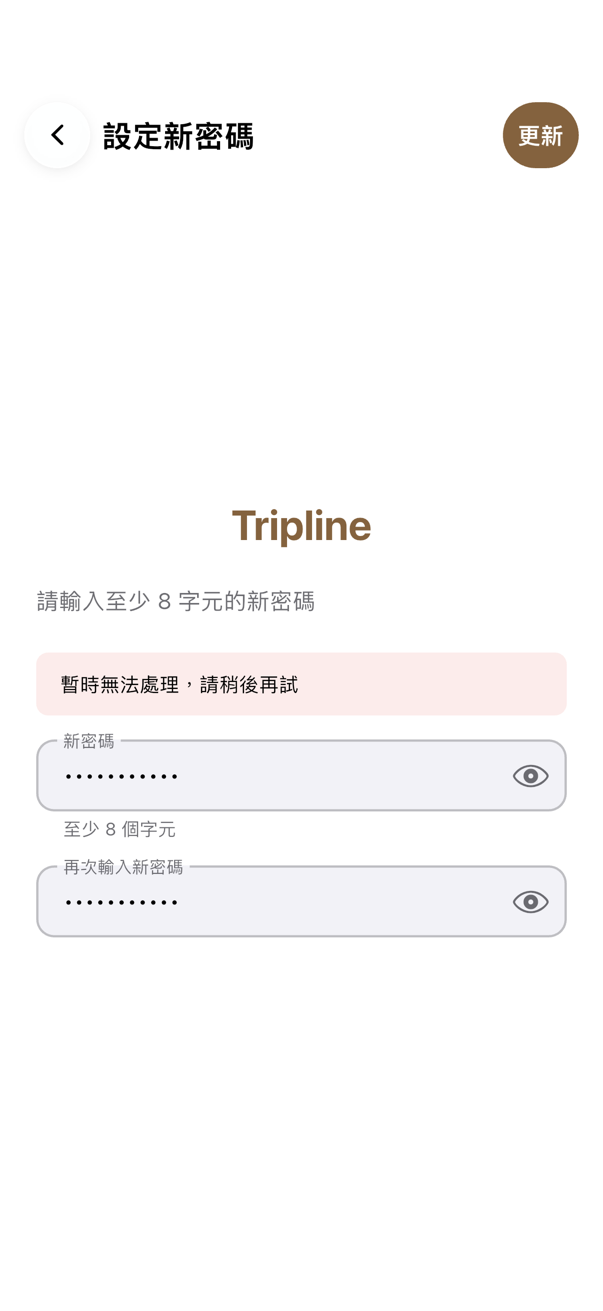
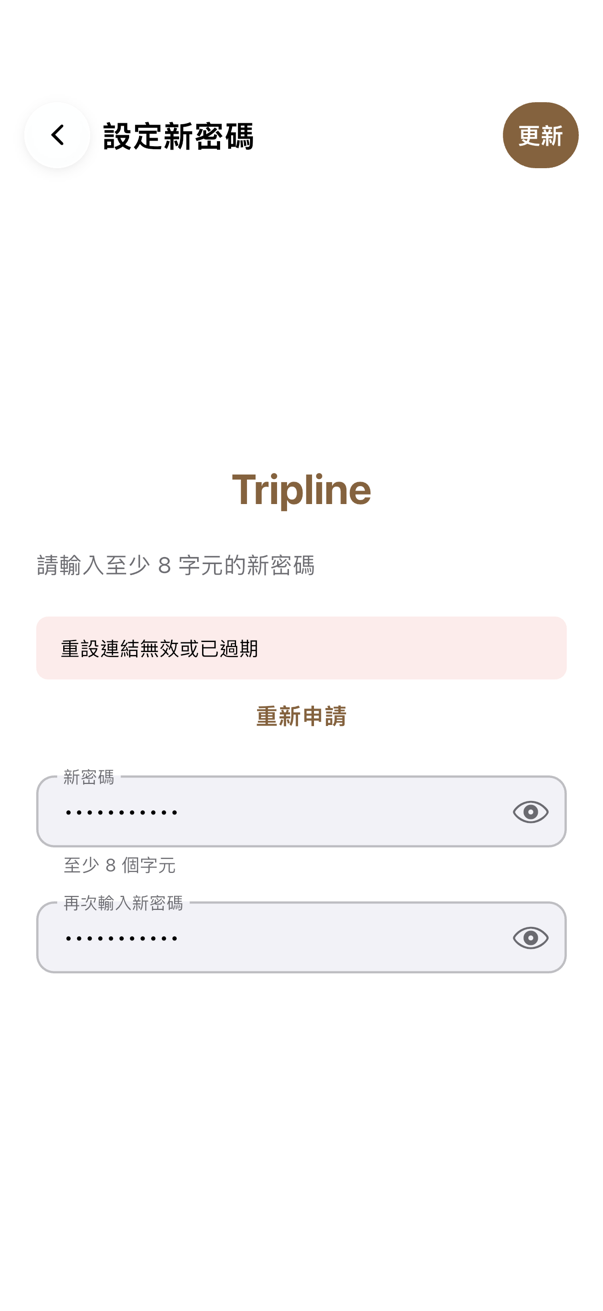
test: 修正三個無效場景並重拍（S1～S3）
- auth-reset-password-expired：stub 改丟畫面認得的 RESET_TOKEN_INVALID，proof 改確認過期提示文字
- trip-map-route-failed：fixture 每天只有一個有座標停留點，湊不出相鄰兩點所以從未抓路線；
  場景補第二個停留點，proof 確認 trip-map-route-error
- ax-favorites-2x：補 act 餵收藏資料流，proof 確認清單內容
- 三處皆用 mutation（把修正改回去）驗過 proof 會轉紅
- HIG_COLLECT 是 bool.fromEnvironment，值要寫 true 不是 1（修正註解與文件）
- 三組截圖重拍（iPhone 17 模擬器）；報告與修改清單同步更新

Changed region(s): [[0.0597, 0.3356, 0.9552, 0.7323]]

diff --git a/integration_test/support/hig_screenshot_scenes.dart b/integration_test/support/hig_screenshot_scenes.dart
@@ -30,7 +30,8 @@ import 'package:tripline/features/offline/offline_sync.dart';
 import 'package:tripline/features/chat/speech_service.dart';
 import 'package:tripline/main.dart';
 import 'package:tripline/models/poi_favorite.dart';
-import 'package:tripline/models/entry.dart' show TimelineEntry;
+import 'package:tripline/models/day.dart' show TripDay;
+import 'package:tripline/models/entry.dart' show EntryPoiInfo, TimelineEntry;
 import 'package:tripline/models/notes.dart';
 import 'package:tripline/models/oauth.dart';
 import 'package:tripline/models/poi_search_result.dart';
@@ -618,14 +619,25 @@ List<HigScene> higScenes() => [
     '#534',
     location: '/auth/password/reset?token=demo-token',
     loggedIn: false,
-    stub: (f) => when(
-      () => f.auth.resetPassword(
-        token: any(named: 'token'),
-        password: any(named: 'password'),
-      ),
-    ).thenThrow(ApiError(status: 400, code: 'expired', message: 'expired')),
+    stub: (f) =>
+        when(
+          () => f.auth.resetPassword(
+            token: any(named: 'token'),
+            password: any(named: 'password'),
+          ),
+        ).thenThrow(
+          ApiError(
+            status: 400,
+            code: 'RESET_TOKEN_INVALID',
+            message: 'invalid',
+          ),
+        ),
     act: _submitResetPassword,
-    proof: () => find.byKey(const ValueKey('reset-password-error')),
+    // 要證明的是「連結過期」那一種錯誤，不是任何一種錯誤（code 對不上時畫面會顯示通用的「暫時無法處理」）。
+    proof: () => find.descendant(
+      of: find.byKey(const ValueKey('reset-password-error')),
+      matching: find.textContaining('重設連結無效或已過期'),
+    ),
   ),
   HigScene(
     'auth-verify-email',
@@ -723,15 +735,51 @@ List<HigScene> higScenes() => [
     'trip-map-route-failed',
     '#418',
     location: '/trips/okinawa/map',
-    stub: (f) => when(
-      () => f.map.fetchRoute(
-        fromLat: any(named: 'fromLat'),
-        fromLng: any(named: 'fromLng'),
-        toLat: any(named: 'toLat'),
-        toLng: any(named: 'toLng'),
-        cancelToken: any(named: 'cancelToken'),
-      ),
-    ).thenAnswer((_) async => throw _failure),
+    stub: (f) {
+      // 預設 fixture 每天只有一個有座標的停留點，湊不出相鄰兩點，路線根本不會被抓取，
+      // 失敗提示也就不會出現。這裡給第 1 天補第二個有座標的停留點，並讓路線抓取失敗。
+      final day1 = releaseSmokeDays.first;
+      final days = [
+        TripDay(
+          id: day1.id,
+          dayNum: day1.dayNum,
+          title: day1.title,
+          version: day1.version,
+          timeline: [
+            ...day1.timeline,
+            TimelineEntry(
+              id: 12,
+              sortOrder: 1,
+              version: 0,
+              startTime: '12:00',
+              endTime: '13:00',
+              title: '國際通',
+              master: const EntryPoiInfo(
+                poiId: 1003,
+                name: '國際通',
+                lat: 26.2142,
+                lng: 127.6879,
+                type: 'sight',
+              ),
+            ),
+          ],
+        ),
+        ...releaseSmokeDays.skip(1),
+      ];
+      when(
+        () => f.trips.watchDays('okinawa'),
+      ).thenAnswer((_) => Stream.value(days));
+      when(
+        () => f.map.fetchRoute(
+          fromLat: any(named: 'fromLat'),
+          fromLng: any(named: 'fromLng'),
+          toLat: any(named: 'toLat'),
+          toLng: any(named: 'toLng'),
+          cancelToken: any(named: 'cancelToken'),
+        ),
+      ).thenAnswer((_) async => throw _failure);
+    },
+    proof: () => find.byKey(const ValueKey('trip-map-route-error')),
   ),
   const HigScene('trip-notes', '#419 #422', location: '/trips/okinawa/notes'),
   const HigScene('trip-print', '#419', location: '/trips/okinawa/print'),
@@ -1348,11 +1396,16 @@ List<HigScene> higScenes() => [
     location: '/trips/okinawa/print',
     textScale: 2.0,
   ),
-  const HigScene(
+  HigScene(
     'ax-favorites-2x',
     '#422',
     location: '/favorites',
     textScale: 2.0,
+    act: (tester, f) async {
+      f.favoritesStream.add(releaseSmokeFavorites);
+    },
+    // 沒有資料流就只會拍到載入骨架；要確認真的渲染出收藏清單。
+    proof: () => find.text('暖暮拉麵'),
   ),
   const HigScene(
     'ax-explore-2x',

diff --git a/test/flows/hig_scene_a11y_collect_test.dart b/test/flows/hig_scene_a11y_collect_test.dart
@@ -1,5 +1,5 @@
 /// 收集用（不是守門）：對每個 mock 場景跑 Flutter 內建的文字對比（C1）與可點擊元素標籤（VoiceOver）檢查，
-/// 只印 `HIGA11Y` 行、不下斷言。沒帶 `--dart-define=HIG_COLLECT=1` 時整批 skip，避免變成永遠綠燈的假測試。
+/// 只印 `HIGA11Y` 行、不下斷言。沒帶 `--dart-define=HIG_COLLECT=true` 時整批 skip，避免變成永遠綠燈的假測試。
 /// `--dart-define=HIG_ONLY=a,b` 只跑指定場景。結果解讀見 `docs/qa/2026-11-04-hig-fix-list.md`。
 ///
 /// 限制：`textContrastGuideline` 以渲染後像素取樣；半透明玻璃、對話框 blur 底、停用狀態的取樣不可靠，

diff --git a/docs/qa/2026-11-04-hig-screenshot-review-app.md b/docs/qa/2026-11-04-hig-screenshot-review-app.md
@@ -15,23 +15,23 @@
 
 | 結論 | 場景數 |
 |---|---|
-| 符合 | 33 |
-| 未見明顯問題 | 47 |
+| 符合 | 34 |
+| 未見明顯問題 | 49 |
 | 疑慮 | 13 |
 | 張力（與檢查表建議衝突，但屬已知專案決策） | 3 |
-| 場景無效（截圖沒有證明想證明的畫面） | 3 |
+| 場景無效（截圖沒有證明想證明的畫面） | 0（原 3 個已修並重拍） |
 | 無法判讀 | 3 |
 | 未看 | 0 |
 
-102 個場景全部看過（第一輪看 72 個，第二輪補看 30 個，含 20 個 `ax-*` 大字級場景）。B2（放大 200%）逐張看過：能判讀的 `ax-*` 場景沒有截斷（`ax-favorites-2x`、`ax-trip-map-2x` 除外，見發現 12 與逐場景），分段控制元件在大字級改垂直堆疊是刻意設計。「未見明顯問題」只代表目視沒看到，沒有量字級，也沒有逐一量對比。
+102 個場景全部看過（第一輪看 72 個，第二輪補看 30 個，含 20 個 `ax-*` 大字級場景）。B2（放大 200%）逐張看過：能判讀的 `ax-*` 場景沒有截斷（`ax-trip-map-2x` 因地圖是 fixture 除外），分段控制元件在大字級改垂直堆疊是刻意設計。「未見明顯問題」只代表目視沒看到，沒有量字級，也沒有逐一量對比。
 
 ## 需要處理的發現
 
 | # | 場景 | 條目 | 發現 | 證據強度 |
 |---|---|---|---|---|
 | 1 | `auth-signup` | F5 | 空表單、未勾同意時「建立」仍可按 | 看圖加程式碼（`account_flow_screens.dart:145`） |
-| 2 | `auth-reset-password-expired` | — | 場景 stub 用錯 error code，畫面顯示的不是過期提示 | 看圖加程式碼（`:541-546`） |
-| 3 | `trip-map-route-failed` | — | 與 `trip-map` 位元組相同，沒有失敗畫面 | SHA-1 相同 |
+| 2 | `auth-reset-password-expired` | — | **已修**：場景 stub 用錯 error code，畫面顯示的不是過期提示 | 看圖加程式碼（`:541-546`） |
+| 3 | `trip-map-route-failed` | — | **已修**：與 `trip-map` 位元組相同，沒有失敗畫面（根因：fixture 湊不出相鄰兩點） | SHA-1 相同 |
 | 4 | `trip-edit` | D10、G5 | 同一個有「取消」的表單，部分欄位按「儲存」才生效、日期與天數立即生效 | 看圖（畫面文字） |
 | 5 | `entry-add`／`entry-edit`／`entry-copy`／`entry-move` | D12 | modal 式表單下方仍顯示底部分頁列 | 看圖 |
 | 6 | `account-sessions` | C1 | 「管理已連結應用」4.36:1，低於 4.5:1；且該卡疑似帶按下／焦點外框 | 像素量測加看圖 |
@@ -40,10 +40,10 @@
 | 9 | `oauth-consent-invalid` | D3 | 沒有返回鈕或導覽列，只有頁內連結 | 看圖 |
 | 10 | `trip-map`、`trip-map-route-failed` | C1 | 玻璃元件量得 2.07～2.74:1，但背景是測試用純色，**不能當作對真實地圖的結論** | 像素量測，結論受限 |
 | 11 | `add-to-trip-invalid-favorite`、`add-to-trip-missing-data` | G6、G7 | 錯誤有說明原因（G6 符合），但只有一行灰字，沒有圖示、重試或返回，底部分頁列仍顯示；「缺下一步動作」在檢查表沒有直接對應條目 | 看圖 |
-| 12 | `ax-favorites-2x` | — | 場景沒有餵資料流，只拍到載入骨架，不是 2x 的清單畫面 | 看圖加程式碼對照 `favorites` 場景 |
+| 12 | `ax-favorites-2x` | — | **已修**：場景沒有餵資料流，只拍到載入骨架，不是 2x 的清單畫面 | 看圖加程式碼對照 `favorites` 場景 |
 | 13 | `ax-public-share-2x` | B2 | 「登入後複製行程」折行剩孤字，與圖示鈕擠同列 | 看圖 |
 
-第 2、3、12 項是**證據本身的缺陷**（場景沒有證明想證明的畫面），不是 App 缺陷。這三個場景的守門（proof）只確認「畫面上有錯誤元素」，沒確認是想證明的那一種，需要修場景。
+第 2、3、12 項是**證據本身的缺陷，已於重拍後修正**（場景沒有證明想證明的畫面），不是 App 缺陷。這三個場景原本的守門（proof）只確認「畫面上有錯誤元素」或根本沒有 proof；現在 proof 都改成確認想證明的那一種，並用 mutation（把修正改回去）驗過會轉紅。
 
 與專案決策有張力（非新發現）：`account-home`、`account-home-security` 有生物辨識開關與外觀設定（F7、H1）；`app-lock-enable-prompt` 在 App 內詢問是否開 Face ID（F7）。
 
@@ -74,7 +74,7 @@
 | `auth-forgot-password` | 淺深已看 | 符合 | D3、D4 | 返回用標準符號、單一 prominent 動作在右上；文字說明齊全 |
 | `auth-login-error` | 淺深已看 | 符合 | F3 | 沒有密碼欄（OAuth 瀏覽器登入）；錯誤有文字說明（G6）。深色為純黑底 |
 | `auth-login` | 淺深已看 | 符合 | F3 | 沒有密碼欄（OAuth 瀏覽器登入）；錯誤有文字說明（G6）。深色為純黑底 |
-| `auth-reset-password-expired` | 淺深已看 | 場景無效 | G6 | 畫面顯示「暫時無法處理，請稍後再試」，不是「連結已過期」：stub 丟的 error code 是 `expired`，畫面只認 `RESET_TOKEN_INVALID`／`RESET_TOKEN_MISSING`（account_flow_screens.dart:541-546）。此場景沒有證明過期畫面 |
+| `auth-reset-password-expired` | 淺深已看（重拍） | 符合 | G6 | 重拍後顯示「重設連結無效或已過期」與「重新申請」，錯誤就地呈現，原因與下一步都有。場景 stub 已改丟 `RESET_TOKEN_INVALID`，proof 改成確認該段文字 |
 | `auth-reset-password-success` | 淺深已看 | 符合 | D3、D4 | 返回用標準符號、單一 prominent 動作在右上；文字說明齊全 |
 | `auth-reset-password` | 淺深已看 | 符合 | D3、D4 | 返回用標準符號、單一 prominent 動作在右上；文字說明齊全 |
 | `auth-signup` | 淺深已看 | 疑慮 | F5 | 空表單、未勾同意時右上「建立」仍是可按的實心樣式；程式 `primaryActionEnabled: !_submitting`（account_flow_screens.dart:145）已確認 |
@@ -89,7 +89,7 @@
 | `ax-chat-2x` | 淺深已看 | 符合 | B2 | 建議按鈕折行不截斷，輸入列完整 |
 | `ax-components-2x` | 淺深已看 | 未見明顯問題 | B2 | 分段控制在大字級改垂直堆疊（`tp_segmented_control.dart:106` 的刻意設計）；選中態只靠底色 |
 | `ax-explore-2x` | 淺深已看 | 未見明顯問題 | B2 | 篩選膠囊橫向可捲，右側被截斷屬預期；卡片折行正常 |
-| `ax-favorites-2x` | 淺深已看 | 場景無效 | — | 沒有餵收藏資料流（對照 `favorites` 場景有 `act`），只拍到載入骨架，沒證明 2x 的清單畫面 |
+| `ax-favorites-2x` | 淺深已看（重拍） | 未見明顯問題 | B2 | 重拍後是 2x 的收藏清單：標題與列文字放大、不截斷；地址被單行省略（「那霸市牧志2-1…」），放大時地址資訊會被吃掉 |
 | `ax-invite-2x` | 淺深已看 | 符合 | B2 | 卡片與按鈕折行不截斷 |
 | `ax-login-2x` | 淺深已看 | 符合 | B2 | 按鈕與連結置中完整 |
 | `ax-public-share-2x` | 淺深已看 | 疑慮 | B2、版面 | 「登入後複製行程」折成兩行並剩孤字「程」，與兩個圖示鈕擠在同一列 |
@@ -145,7 +145,7 @@
 | `trip-health-findings` | 淺深已看 | 疑慮 | 版面 | 第二張建議卡只有第一張一半寬，疑似版面缺陷（HIG 無對應條文） |
 | `trip-health-load-failed` | 淺深已看 | 未見明顯問題 | — | 目視未發現與檢查表衝突之處；僅看圖，未量字級與對比 |
 | `trip-health-not-run` | 淺深已看 | 未見明顯問題 | — | 目視未發現與檢查表衝突之處；僅看圖，未量字級與對比 |
-| `trip-map-route-failed` | 淺深已看 | 場景無效 | — | 淺、深色圖與 `trip-map` 的 SHA-1 完全相同，看不到路線失敗的提示；此場景沒有證明失敗畫面 |
+| `trip-map-route-failed` | 淺深已看（重拍） | 未見明顯問題 | G6、G7 | 重拍後出現「部分路線無法載入」與「重試」，就近顯示在地圖上方、不擋地圖。背景仍是測試用地圖 fixture，玻璃元件對比不能下結論。原本沒失敗畫面是因為 fixture 每天只有一個有座標的停留點，湊不出相鄰兩點，根本不會抓路線 |
 | `trip-map` | 淺深已看 | 無法判讀 | C1 | 玻璃元件疊在「Google Map fixture」純色底上；量得 2.07～2.74:1，但真實地圖底色不同，不能作結論 |
 | `trip-notes` | 淺深已看 | 未見明顯問題 | — | 目視未發現與檢查表衝突之處；僅看圖，未量字級與對比 |
 | `trip-print` | 淺深已看 | 未見明顯問題 | — | 目視未發現與檢查表衝突之處；僅看圖，未量字級與對比 |

diff --git a/docs/qa/2026-11-04-hig-fix-list.md b/docs/qa/2026-11-04-hig-fix-list.md
@@ -6,15 +6,15 @@
 
 證據強度：**程式碼**＝對照過原始碼；**像素**＝量過；**看圖**＝只有目視，改之前建議先在真機或模擬器再確認一次。
 
-## 一、先修證據（場景本身有問題）
+## 一、證據修正（S1～S3 已完成並重拍）
 
-這三項不修，截圖就不能當作對應畫面的證據；都是測試端的改動，不影響 App 行為。
+三項都是測試端的改動，不影響 App 行為。已修、重拍並換入 `2026-11-04-hig-screenshots/`，各自用 mutation 驗過 proof 會轉紅。
 
 | # | 場景 | 問題 | 建議修改 | 驗證 |
 |---|---|---|---|---|
-| S1 | `auth-reset-password-expired` | stub 丟 `expired`，畫面只認 `RESET_TOKEN_INVALID`／`MISSING`，顯示的是「暫時無法處理」，不是過期提示（程式碼，`account_flow_screens.dart:541-546`） | 場景 stub 改丟畫面認得的 code | 重拍後畫面出現過期提示文字；`hig_scene_guidelines_test` 仍綠 |
-| S2 | `trip-map-route-failed` | 與 `trip-map` 位元組完全相同（SHA-1），沒有失敗畫面 | 讓路線 stub 真的失敗，並讓 proof 確認是「路線失敗」的那個元素 | 重拍後 SHA-1 不同，且畫面看得到失敗提示 |
-| S3 | `ax-favorites-2x` | 沒有 `act` 餵收藏資料流（對照 `favorites` 場景），只拍到載入骨架（程式碼加看圖） | 補上與 `favorites` 相同的 `act` | 重拍後是 2x 的收藏清單 |
+| S1 ✅ | `auth-reset-password-expired` | stub 丟 `expired`，畫面只認 `RESET_TOKEN_INVALID`／`MISSING`，顯示的是「暫時無法處理」，不是過期提示（程式碼，`account_flow_screens.dart:541-546`） | 場景 stub 改丟畫面認得的 code | 重拍後畫面出現過期提示文字；`hig_scene_guidelines_test` 仍綠 |
+| S2 ✅ | `trip-map-route-failed` | 與 `trip-map` 位元組完全相同（SHA-1），沒有失敗畫面 | **根因**：fixture 每天只有一個有座標的停留點，`_routePairsForTab` 湊不出相鄰兩點，`fetchRoute` 從未被呼叫，失敗 stub 形同虛設。修法：場景給第 1 天補第二個有座標的停留點，proof 確認 `trip-map-route-error` | 重拍後 SHA-1 不同，且畫面看得到失敗提示 |
+| S3 ✅ | `ax-favorites-2x` | 沒有 `act` 餵收藏資料流（對照 `favorites` 場景），只拍到載入骨架（程式碼加看圖） | 補上與 `favorites` 相同的 `act` | 重拍後是 2x 的收藏清單 |
 
 另有兩個場景受限，不是缺陷：`trip-map`、`ax-trip-map-2x`、`global-map` 的地圖是測試用純色 fixture，玻璃元件的對比（量得 2.07～2.74:1）**不能當對真實地圖的結論**，要真機看。web 的 `trip-map`、`map` 場景擋掉了 Google Maps，畫面是錯誤態，同理。
 
@@ -55,7 +55,7 @@ web 補掃（axe、320px 重排、200% 文字、鍵盤焦點）詳見 web 報告
 
 ## 三之三、補掃：文字對比與 VoiceOver 標籤（工具量測）
 
-用 Flutter 內建的 `textContrastGuideline` 與 `labeledTapTargetGuideline` 掃 100 個場景（`components`、`ax-components-2x` 是元件示範頁，沒掃）× 淺深，共 200 次；66 次有項目未過。指令：`flutter test test/flows/hig_scene_a11y_collect_test.dart --dart-define=HIG_COLLECT=1`（只印 `HIGA11Y` 行，不是守門；沒帶旗標會 skip）。
+用 Flutter 內建的 `textContrastGuideline` 與 `labeledTapTargetGuideline` 掃 100 個場景（`components`、`ax-components-2x` 是元件示範頁，沒掃）× 淺深，共 200 次；66 次有項目未過。指令：`flutter test test/flows/hig_scene_a11y_collect_test.dart --dart-define=HIG_COLLECT=true`（只印 `HIGA11Y` 行，不是守門；沒帶旗標會 skip）。
 
 **限制：**對比由工具以渲染後像素取樣，半透明玻璃、對話框 blur 底、停用狀態的取樣不可靠；下表只收「對照截圖後仍成立」的項目。本輪沒有再另外手量，數值是工具輸出。
 
@@ -79,9 +79,9 @@ web 補掃（axe、320px 重排、200% 文字、鍵盤焦點）詳見 web 報告
 
 | 項目 | 截圖 | 引用條目與一手來源 |
 |---|---|---|
-| S1 | `auth-reset-password-expired` | 無（場景缺陷，與 HIG 無關） |
+| S1 ✅ | `auth-reset-password-expired` | 無（場景缺陷，與 HIG 無關） |
 | S2 | `trip-map-route-failed`、`trip-map` | 無（場景缺陷） |
-| S3 | `ax-favorites-2x` | 無（場景缺陷） |
+| S3 ✅ | `ax-favorites-2x` | 無（場景缺陷） |
 | A1 | `auth-signup` | F5：HIG/entering-data |
 | A2 | `add-to-trip-invalid-favorite`、`add-to-trip-missing-data` | G6、G7：HIG/feedback；「缺下一步動作」**無一手來源**，是專案內的可用性判斷 |
 | A3 | `trip-edit` | D10：HIG/sheets；G5：HIG/feedback |
@@ -115,7 +115,7 @@ App 路由與彈出層對照見[畫面清單](../research/2026-11-04-hig-app-scr
 
 ## 建議順序
 
-1. S1～S3（場景修好，之後重拍才有意義）。
+1. ~~S1～S3（場景修好並重拍）~~ 已完成。
 2. A1、A2、A4（行為性缺陷，有程式碼證據）、T1、T5～T7（工具量測，有確切節點）。
 3. A5～A9、W1～W5（視覺類，先在模擬器或瀏覽器再確認一次再改）。
 4. A3 與張力項目要先做決定。
